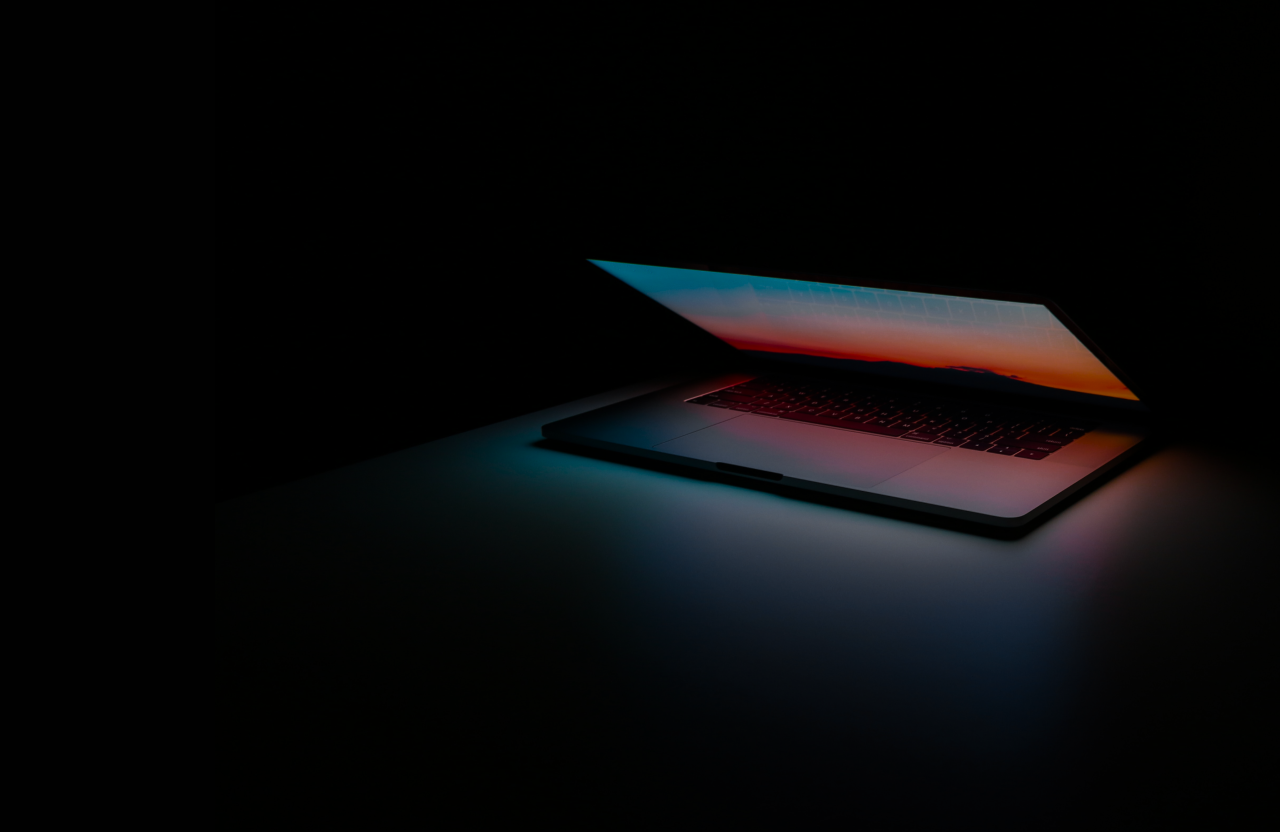
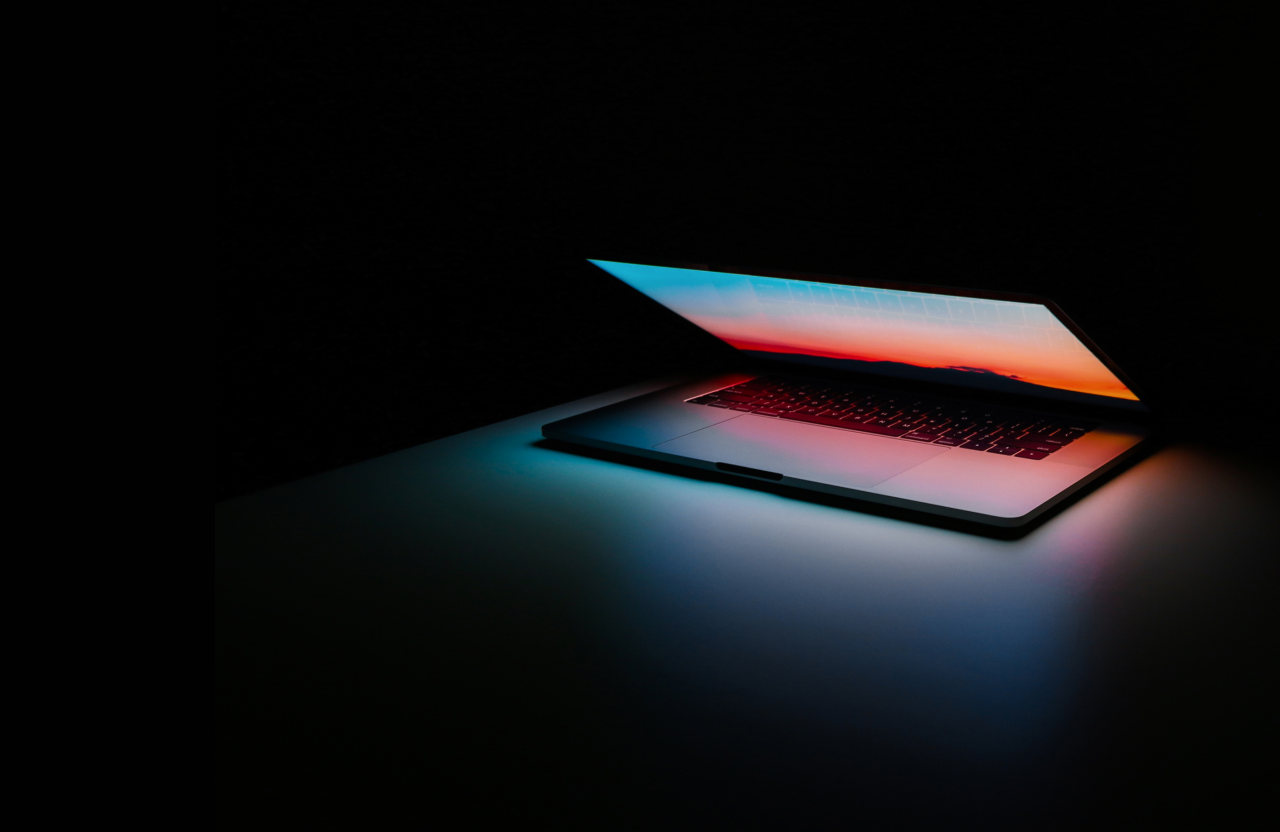
update bg

Changed region(s): [[0.3438, 0.3125, 0.9375, 0.8438], [0.4375, 0.4688, 0.4688, 0.5]]

diff --git a/styles/mobile.css b/styles/mobile.css
@@ -37,10 +37,10 @@ body {
     /* font-family: 'Sometype Mono', monospace; */
     scroll-behavior: smooth;
     font-size: 16px;
-    background: var(--backgroundColor) url(/img/bg\ full.jpg) no-repeat;
+    background: var(--backgroundColor) url(/img/bg\ card\ desktop.jpg) no-repeat;
     background-size: cover;
     background-attachment: fixed;
-    background-position: center;
+    background-position: left;
 
 }
 
